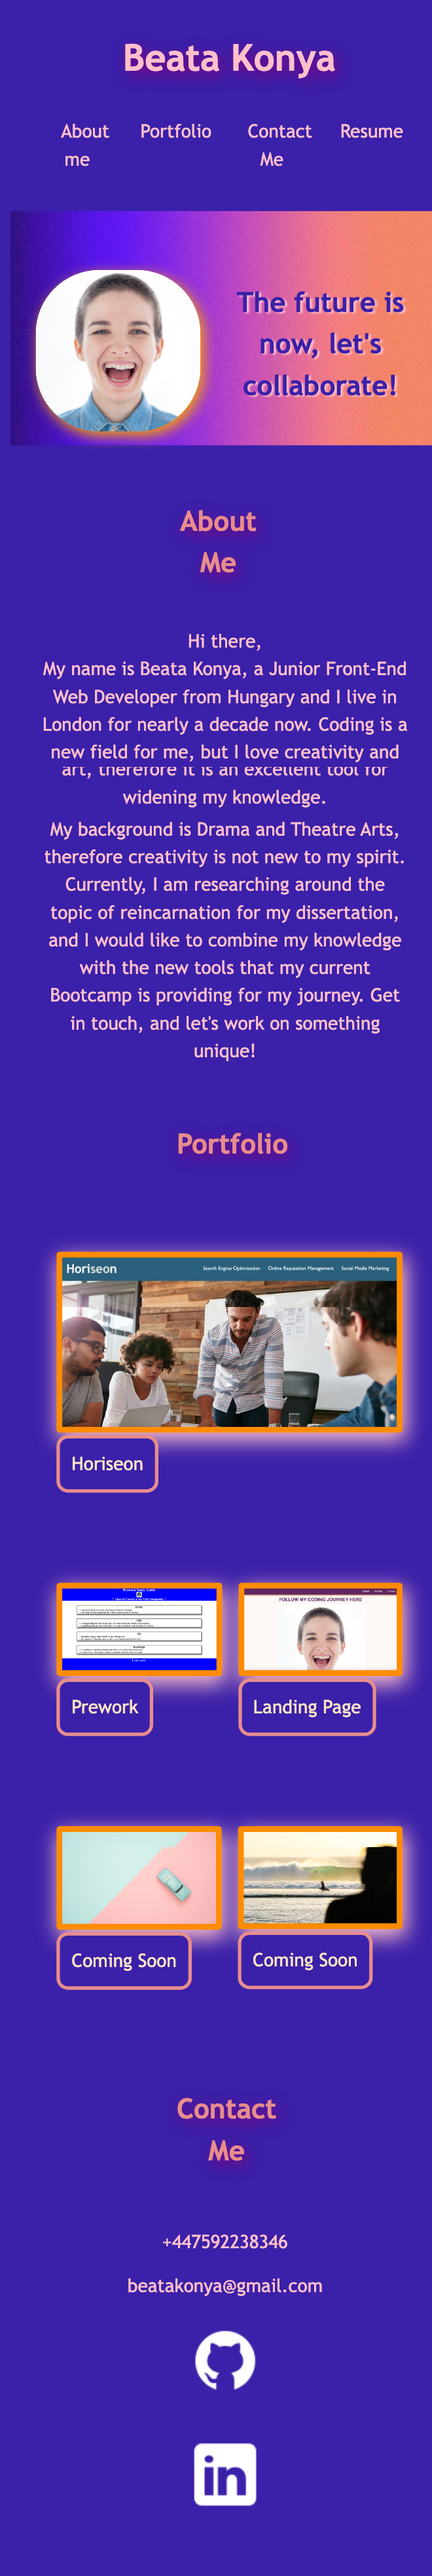
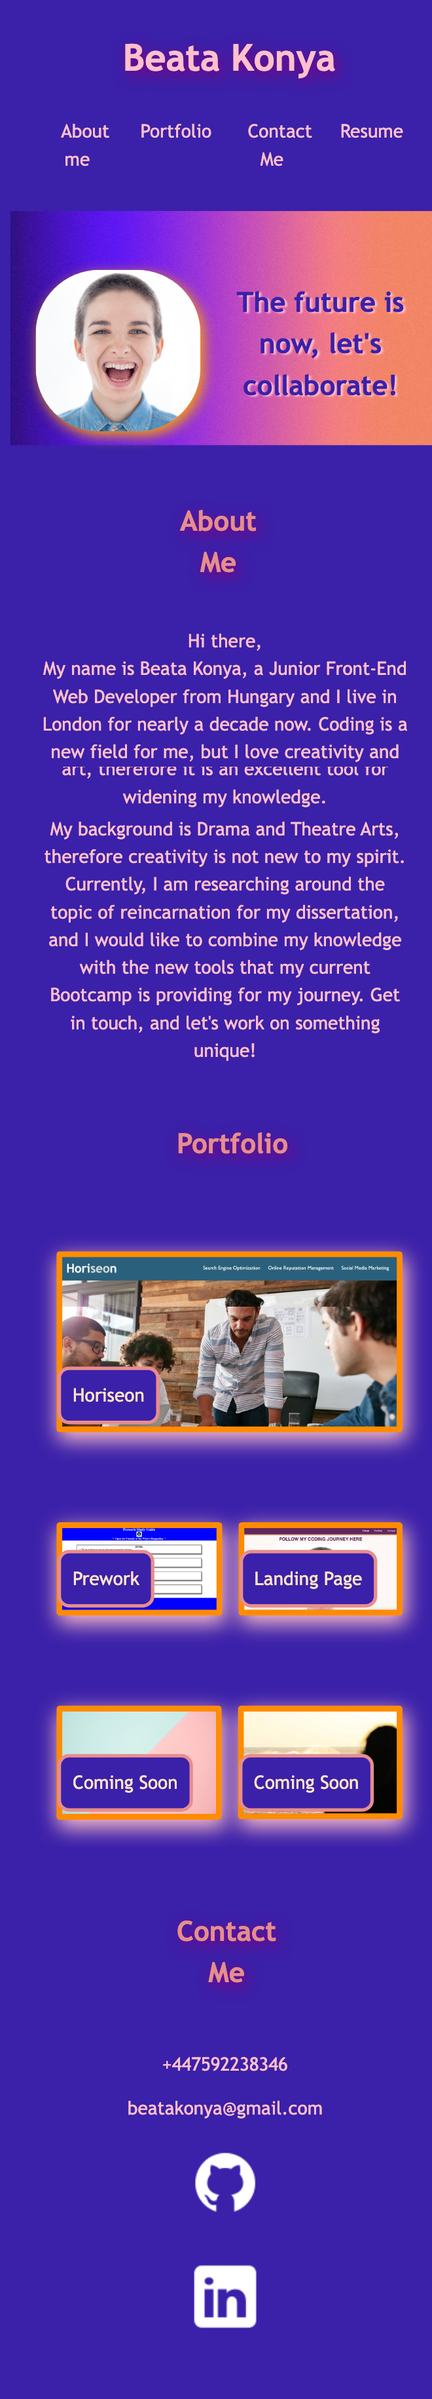
added changes to readme and also edited css

Changed region(s): [[0.0303, 0.0, 1.0, 0.9964], [0.0303, 0.0623, 0.0606, 0.0934]]

diff --git a/assets/css/style.css b/assets/css/style.css
@@ -131,7 +131,7 @@ body {
 
 .description {
   position: absolute;
-  bottom: 0;
+  bottom: 36px;
   left: 0;
   box-sizing: border-box;
   color: bisque;
@@ -231,7 +231,8 @@ p {
   }
 
   p.description {
-    position: relative;
+    position: absolute;
+    left: 6px;
 
   }
 

diff --git a/README.md b/README.md
@@ -35,7 +35,8 @@ No Installation necessary.
 
 ## <a name='Usage'></a>Usage
 
-Use as a standard portfolio landing page. The links will open in new tabs. Please do change the details that are currently presented on the site, if decided to use the page.
+Use as a standard portfolio landing page. The navigation bar seamlessly connects users to the main sections of the page, and it also provides a link to a resume, which opens in a new tab for convenience. The image containers on the page are clickable, opening in new tabs to showcase projects or work samples.
+The contact section is interactive, utilizing links for smooth navigation. Each image on the page comes with a detailed description, enhancing the user experience. Additionally, the page is optimized for mobile browsers, ensuring a responsive and user-friendly display across various devices. Feel free to customize the content on the site to best represent your skills and achievements.
 
 ## <a name='Credits'></a>Credits
 
